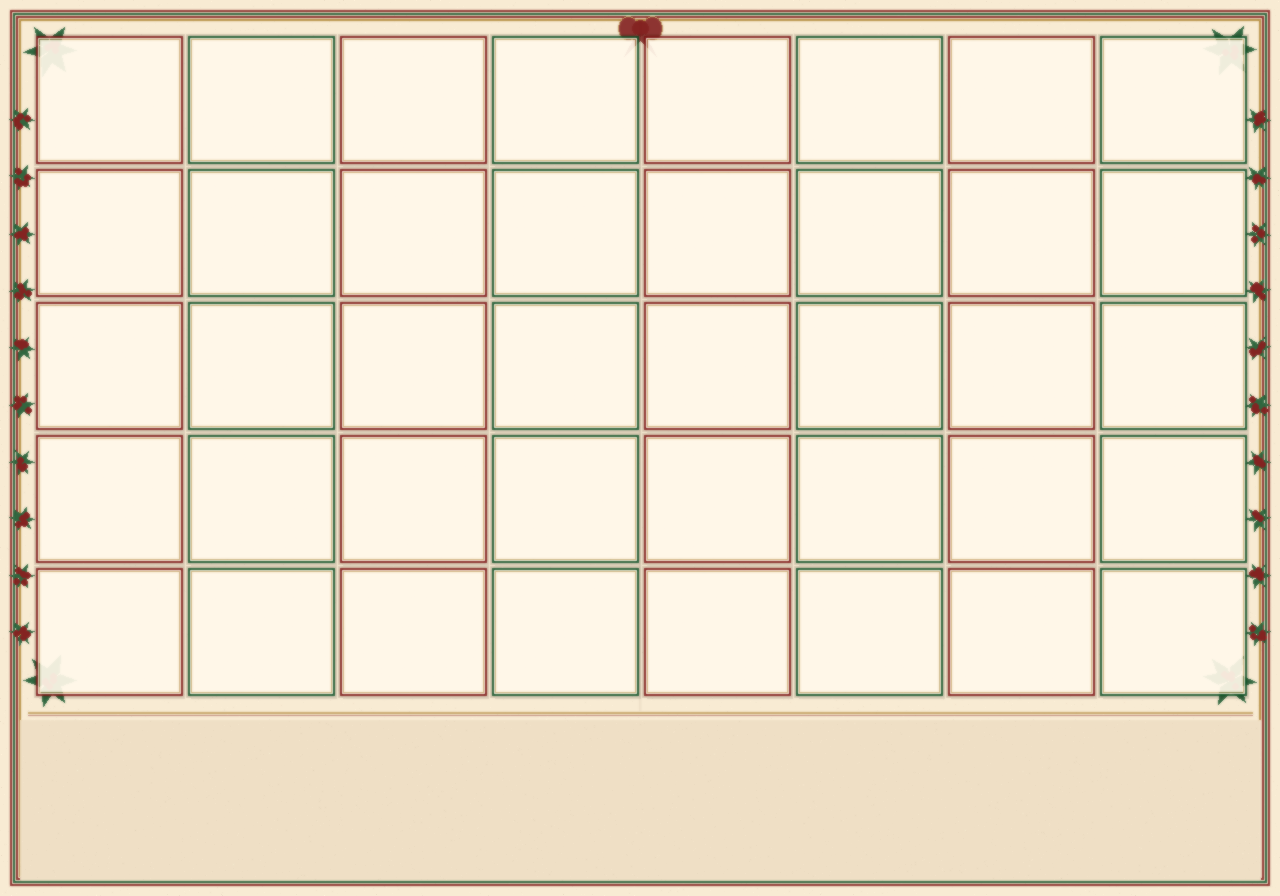
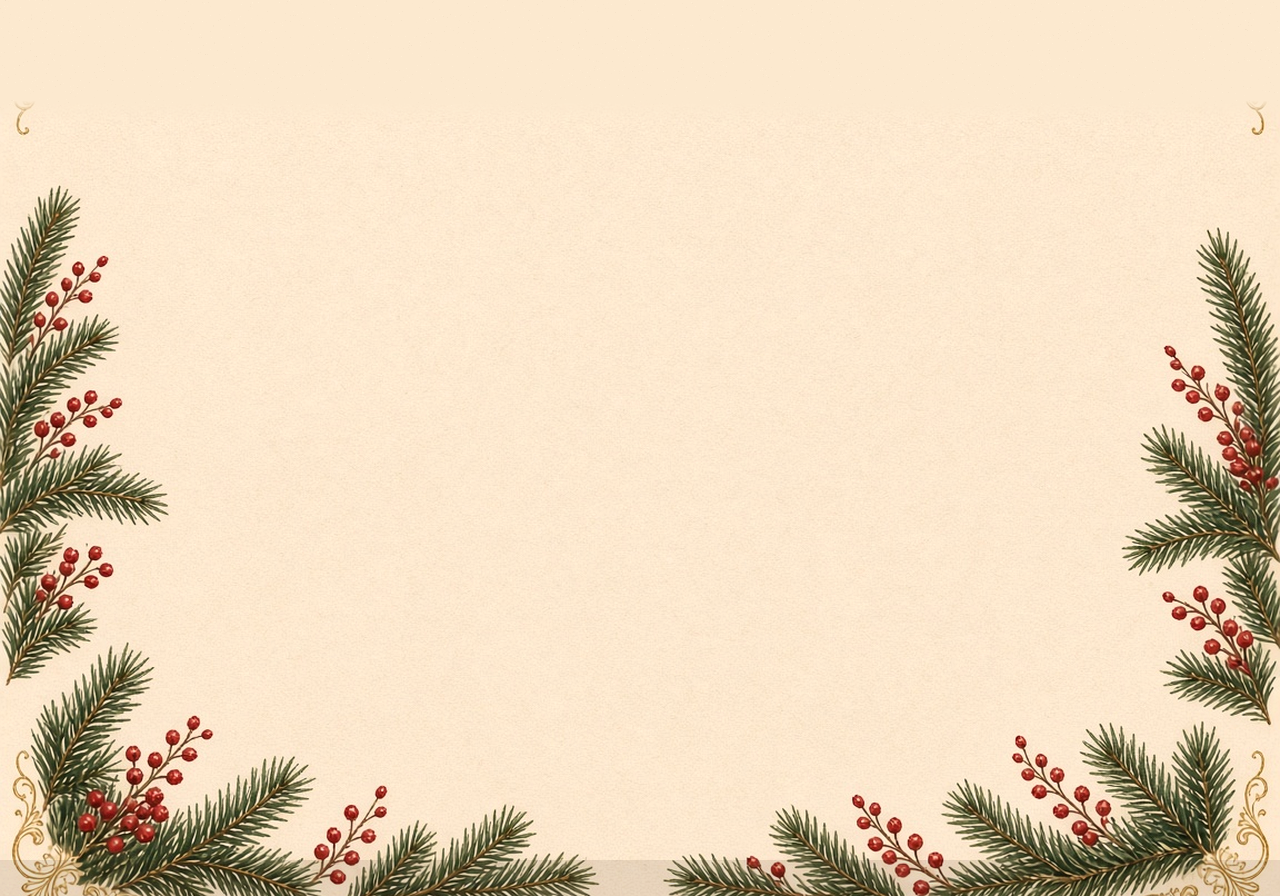
Refresh Christmas Catalog with 1950s art and header clearance
Replace the catalog entry and prev/next plaques with festive mid-century
designs, rebuild page backgrounds with a clean ~100px top band for the
room header, and keep item maps below that overlay.

diff --git a/scripts/db/christmas_catalog_layouts.php b/scripts/db/christmas_catalog_layouts.php
@@ -6,14 +6,14 @@
  * .area-1 / .area-2 reserved for previous / next nav plaques (bottom band).
  * Item selectors start at .area-3.
  *
- * Header clearance: leave room for absolute title bar + "Back to Main Room".
- * Content band: y ≈ 112–720. Bottom nav band: y ≈ 745–875.
+ * Header clearance: leave ~100px for absolute title bar + "Back to Main Room".
+ * Content band: y ≈ 100–720. Bottom nav band: y ≈ 745–875.
  */
 
 declare(strict_types=1);
 
-/** Top inset so items clear the room title bar + Back button overlay. */
-const WF_CATALOG_HEADER_CLEARANCE = 112;
+/** Top inset so items clear the room title bar + Back button overlay (~100px). */
+const WF_CATALOG_HEADER_CLEARANCE = 100;
 /** Bottom of the item content band (above prev/next plaques). */
 const WF_CATALOG_CONTENT_BOTTOM = 720;
 const WF_CATALOG_CANVAS_W = 1280;
